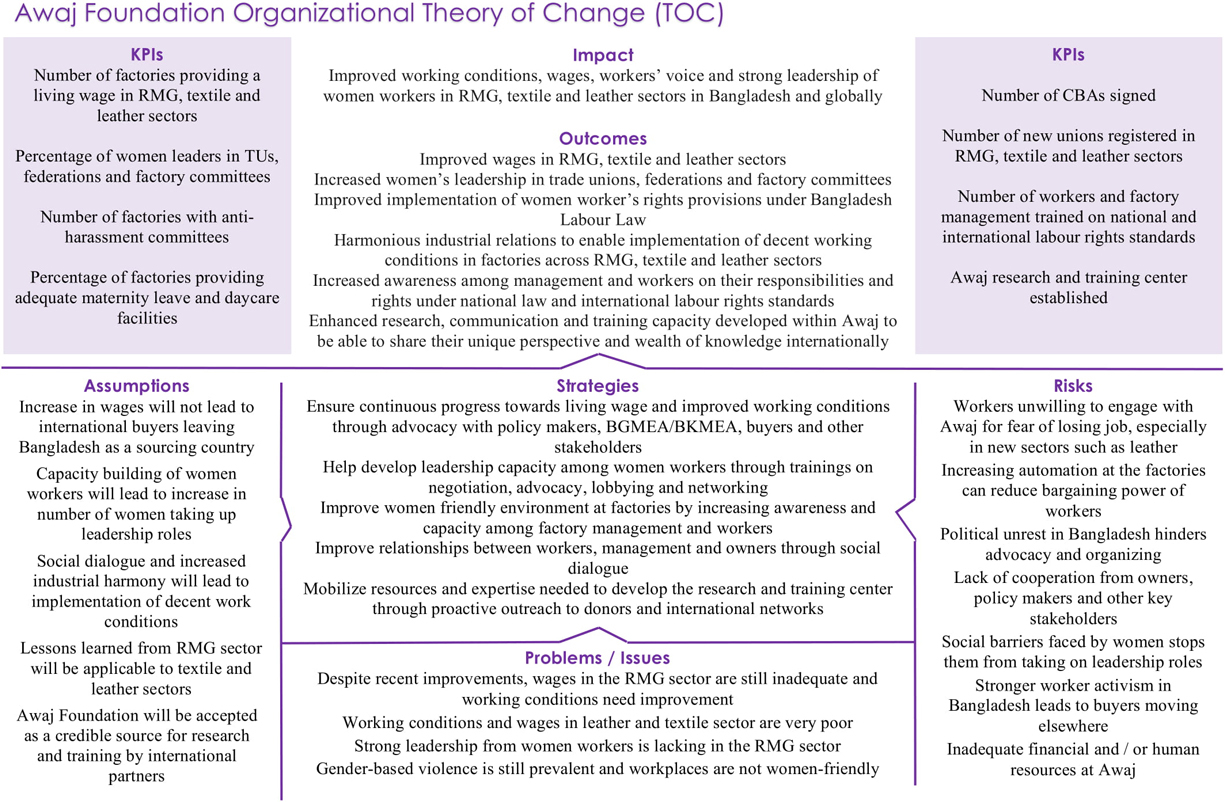
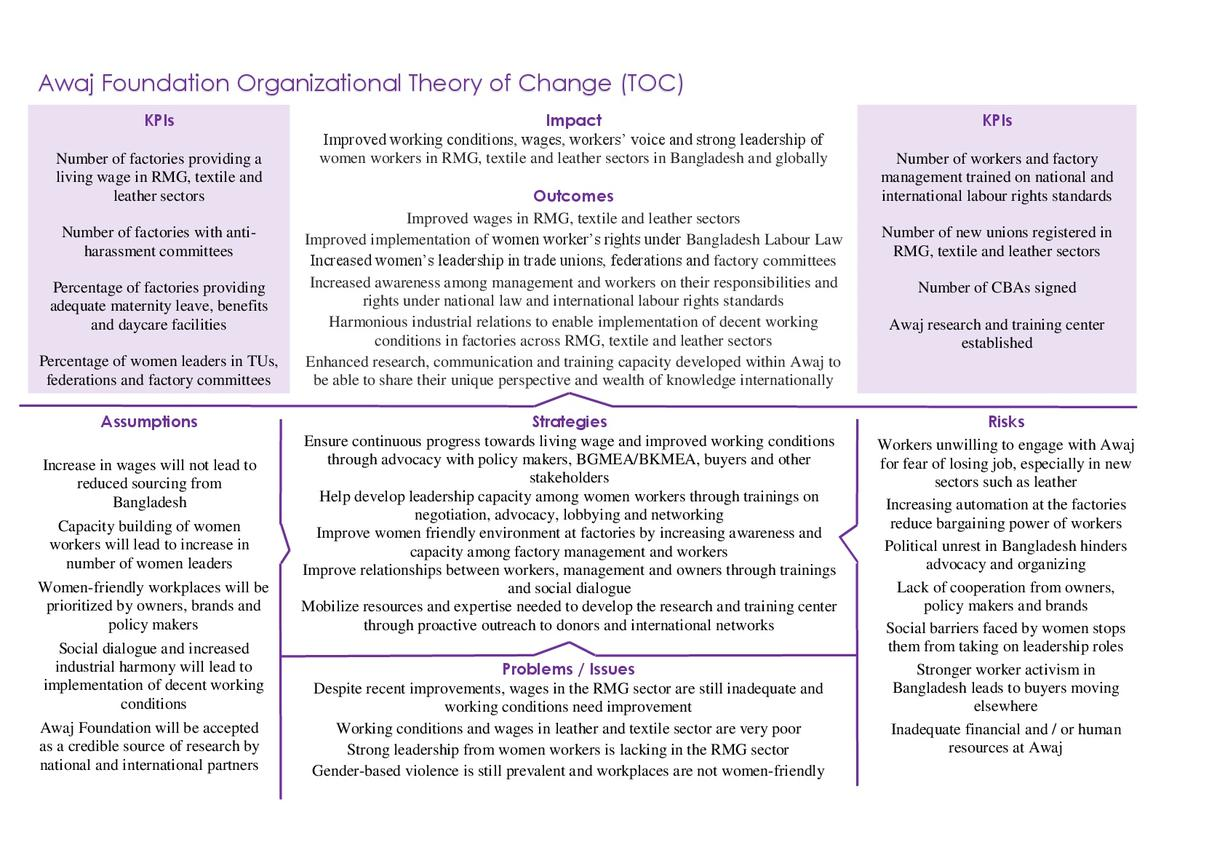
Theory of change contents added

diff --git a/_html/6.theory-of-change.html b/_html/6.theory-of-change.html
@@ -127,10 +127,16 @@
             <div class="columns large-12">
 
                 <article class="article">
-                    <p>Until recently, the prevailing view assumed lorem ipsum was born as a nonsense text. “It's not
-                        Latin, though it looks like it, and it actually says nothing,” Before & After magazine answered
-                        a curious reader, “Its ‘words’ loosely approximate the frequency with which letters occur in
-                        English, which is why at a glance it looks pretty real.”</p>
+                    <p>Awaj Foundation believes that decent working conditions and better lives for workers are achieved and sustained when workers are aware of their rights and an enabling environment exists to exercise those rights. In order to facilitate this, Awaj focuses on six main areas:</p>
+                    <ul>
+                        <li>A living wage that enables workers to live with dignity</li>
+                        <li>Centering the welfare of women workers, who are the majority of the workforce in the RMG sector, by ensuring safe workplaces for women and implementation of provisions such as maternity benefits and daycare facilities</li>
+                        <li>Developing capacity and creating an enabling environment for women to take up leadership roles in their factories and the sector as a whole</li>
+                        <li>Increasing awareness among all stakeholders, including workers, factory owners and management on their rights and responsibilities to each other</li>
+                        <li>Enabling implementation of decent working conditions through social dialogue between workers and factory management</li>
+                        <li>Amplifying grassroots voices in policy processes through a research and advocacy agenda that is shaped by workers themselves</li>
+                    </ul>
+                    <p>Our interventions contribute to at least one of these six domains of change, which in the long-run will contribute towards improved working conditions, stronger workers’ voice and leadership of women in Bangladesh and around the world.</p>
                 </article>
 
                 <figure class="img-full-width"><img src="src/images/awaj-toc.jpg" alt=""></figure>
